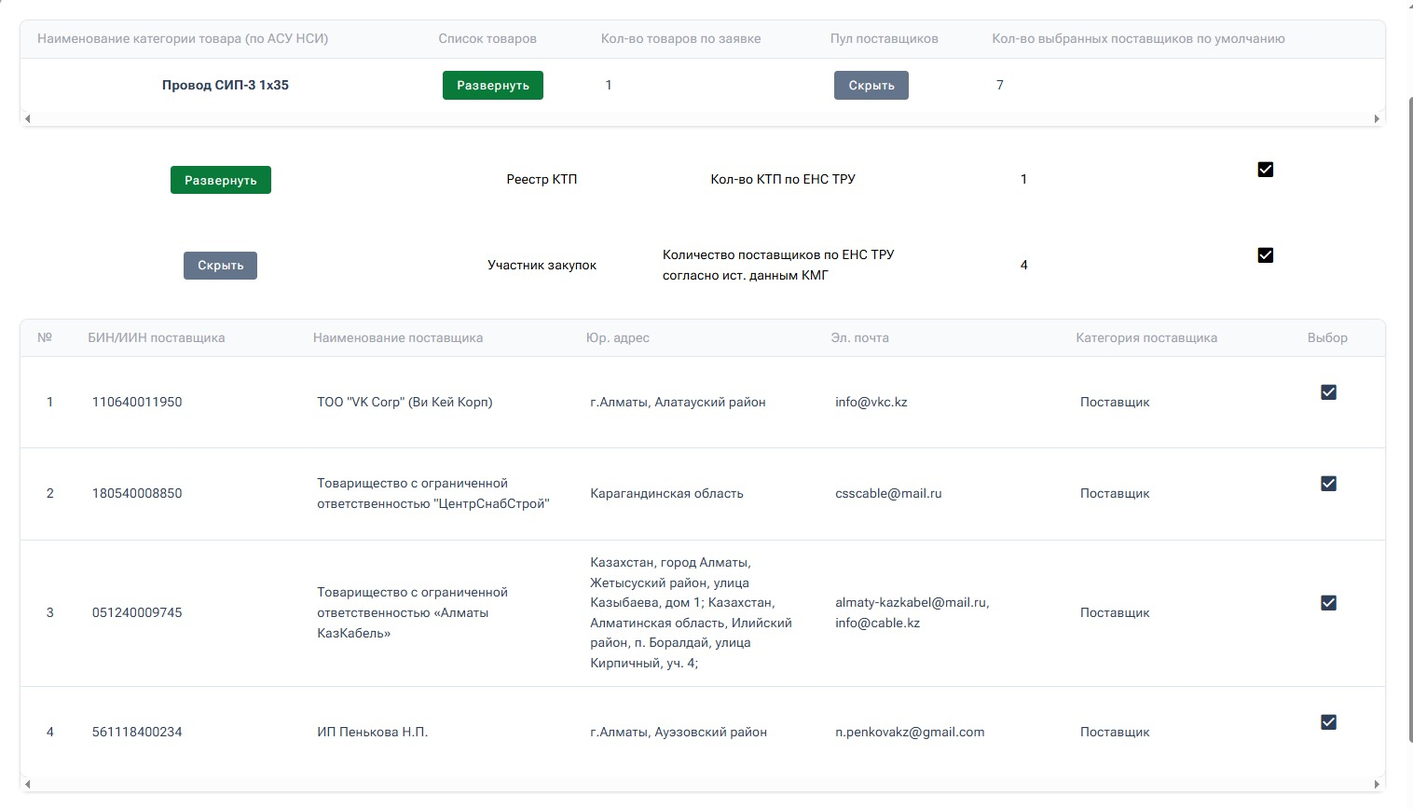
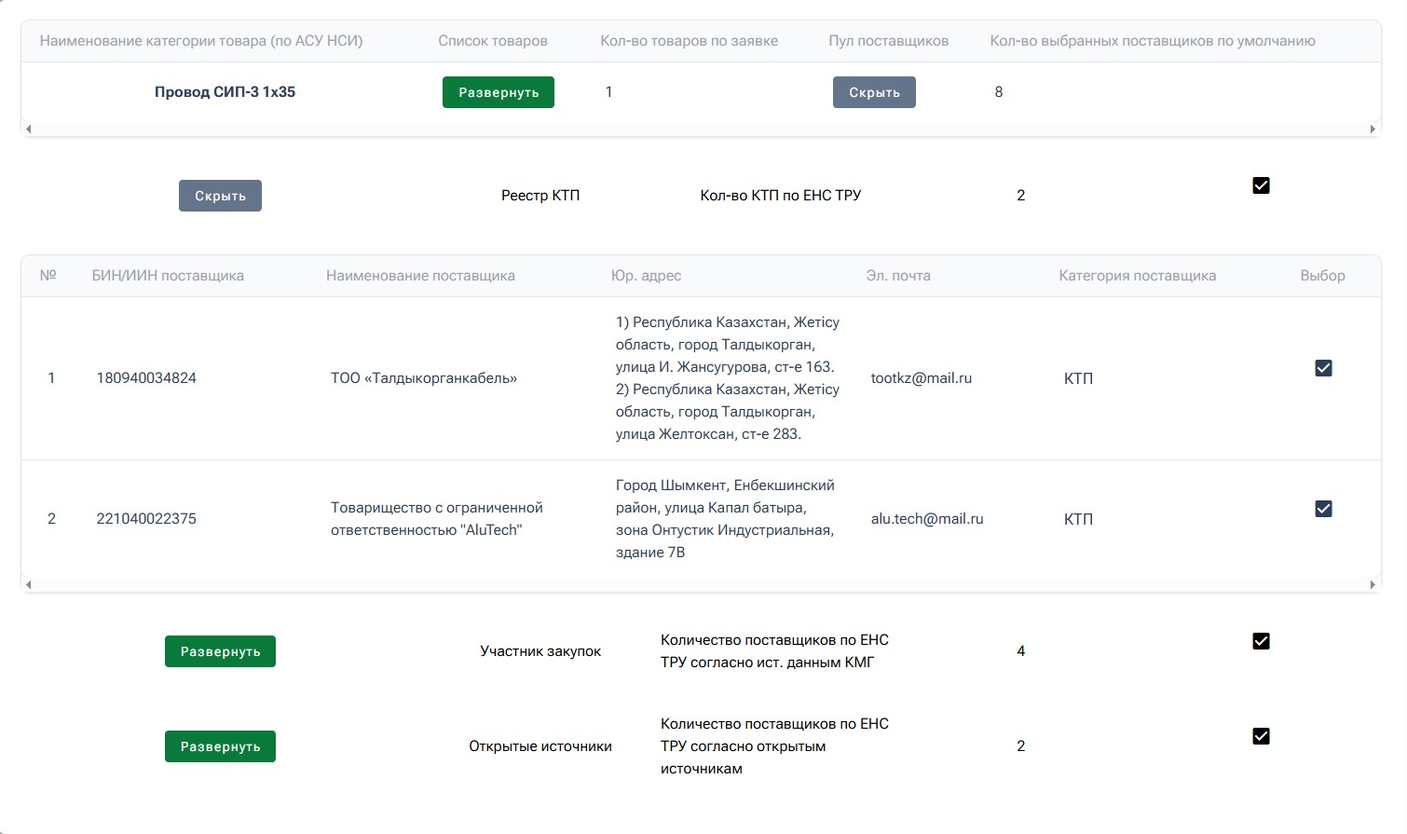
Закупки: новые скрины пула поставщиков и бюджета, порядок слайдов, список товаров
Адиль 16.09 вечером:
- 7-й слайд — новый скрин пула поставщиков (8 по умолчанию: КТП по ЕНС
  ТРУ, участники закупок, открытые источники);
- 9-й слайд — новый скрин DS Warehouse с бюджетированием; сумма по нему
  41,8 млн ₸ за 65 529 м, а не 319 тыс. ₸;
- 2-й и 3-й слайды местами: сначала helicopter view, потом проблемы;
- список 25 товаров пилота возвращён в самый конец;
- на карточке AISAP снято «4 шага из 7 реализованы».

Проверено: порядок слайдов и последний слайд снимком.

diff --git a/закупки.html b/закупки.html
@@ -673,50 +673,6 @@ body.экраны #обёртка::after{display:none}
   <div class="полотно ролик"><video src="медиа/ролики/закупки.mp4" playsinline preload="metadata"></video></div>
 </section>
 
-<section class="слайд" id="с0п" aria-label="Какие проблемы решаем">
-  <div class="бровь">Зачем · текущие проблемы закупок</div>
-  <h2 class="заголовок дисплей">Какие проблемы решаем</h2>
-  <p class="идея">Пять проблем закупки, которые решает сквозной процесс. Нажатие — следующая.</p>
-  <!-- 14.09: формулировки и суть — из таблицы Армана дословно. Подача: пять
-       плиток сверху, суть по одной в панели снизу (Адиль: «кипа текста»),
-       текущая плитка подсвечена маркером data-к/data-до. -->
-  <div class="пп_плитки">
-    <svg class="пэ_нить" viewBox="0 0 1724 8" preserveAspectRatio="none" aria-hidden="true"><line x1="0" y1="4" x2="1724" y2="4" class="нить" pathLength="1"/></svg>
-      <div class="пп_плитка" data-к="1"><i class="пп_маркер" data-к="1" data-до="1"></i><img src="медиа/иконки_закупки/шаг1.png" alt=""><em>01</em><b>Неточная потребность</b></div>
-      <div class="пп_плитка" data-к="2"><i class="пп_маркер" data-к="2" data-до="2"></i><img src="медиа/иконки_закупки/шаг2.png" alt=""><em>02</em><b>Цены вручную</b></div>
-      <div class="пп_плитка" data-к="3"><i class="пп_маркер" data-к="3" data-до="3"></i><img src="медиа/иконки_закупки/шаг3.png" alt=""><em>03</em><b>Ручные операции и разрывы</b></div>
-      <div class="пп_плитка" data-к="4"><i class="пп_маркер" data-к="4" data-до="4"></i><img src="медиа/иконки_закупки/шаг5.png" alt=""><em>04</em><b>Долгий закупочный цикл</b></div>
-      <div class="пп_плитка" data-к="5"><i class="пп_маркер" data-к="5" data-до="5"></i><img src="медиа/иконки_закупки/шаг7.png" alt=""><em>05</em><b>Разорванная ответственность</b></div>
-  </div>
-  <div class="пп_панели">
-      <div class="пп_панель" data-к="1" data-до="1">
-        <div class="пп_текст"><div class="пп_н">Проблема 01</div><h3>Потребность формируется неточно, что приводит к росту запасов и неликвидов</h3><p>Потребность часто формируется на основании заявок прошлых лет, ручных оценок и неполной видимости складов. В результате закупаются ТРУ, которые уже есть на складах или не будут использованы в срок.</p></div>
-        <div class="пп_акцент"><b>88 → 147</b><span>млрд ₸ остатков за три года · 85 млрд ₸ — исторические</span></div>
-      </div>
-      <div class="пп_панель" data-к="2" data-до="2">
-        <div class="пп_текст"><div class="пп_н">Проблема 02</div><h3>Цены определяются вручную и быстро теряют актуальность</h3><p>Ручной сбор КП, Excel и переписка приводят к тому, что цена становится устаревшей ещё до утверждения бюджета или плана закупок. Из-за этого появляются корректировки, возвраты и повторные согласования.</p></div>
-        <div class="пп_акцент"><b>КП → Excel → почта</b><span>цена устаревает до утверждения бюджета</span></div>
-      </div>
-      <div class="пп_панель" data-к="3" data-до="3">
-        <div class="пп_текст"><div class="пп_н">Проблема 03</div><h3>Процесс перегружен ручными операциями и разрывами между системами</h3><p>Данные вводятся вручную, переносятся между Excel, почтой и разными ИС. Это увеличивает трудозатраты, создаёт ошибки и снижает прослеживаемость закупки от потребности до договора.</p></div>
-        <div class="пп_акцент"><b>Excel · почта · разные ИС</b><span>закупка не прослеживается от потребности до договора</span></div>
-      </div>
-      <div class="пп_панель" data-к="4" data-до="4">
-        <div class="пп_текст"><div class="пп_н">Проблема 04</div><h3>Закупочный цикл затягивается из-за согласований, проверок и процедурных возвратов</h3><p>Многоступенчатые согласования, ручная проверка документации и несинхронность бюджета, плана и закупочной процедуры удлиняют цикл. Закупка часто движется не как сквозной процесс, а как набор отдельных согласований.</p></div>
-        <div class="пп_акцент"><b>бюджет ≠ план ≠ процедура</b><span>набор согласований вместо сквозного процесса</span></div>
-      </div>
-      <div class="пп_панель" data-к="5" data-до="5">
-        <div class="пп_текст"><div class="пп_н">Проблема 05</div><h3>Ответственность за результат обрывается между этапами: никто не управляет E2E-процессом</h3><p>Каждый участник отвечает только за свой участок: потребность, цену, бюджет, план, закупку или договор. После передачи на следующий этап контроль результата теряется, а проблемы выявляются поздно — уже на поставке, оплате или претензионной работе.</p></div>
-        <div class="пп_акцент"><b>потребность · цена · бюджет · план · закупка · договор</b><span>у каждого свой участок — за результат не отвечает никто</span></div>
-      </div>
-  </div>
-</section>
-
-<!-- ================= 0. первая страница: helicopter view =================
-     Созвон 03.09 23:40: заголовок «Сквозной процесс проведения закупок
-     посредством ИИ», мельче — «без участия человеческого фактора»; сверху
-     имя системы KMG AISAP с расшифровкой; у шагов — иллюстрации, названия
-     системы крупнее, модуль под ним. -->
 <section class="слайд" id="с0" aria-label="Helicopter view">
   <div class="бровь">Helicopter view</div>
   <div class="система_имя дисплей">KMG AISAP <span>AI Satyp Alu Platformasy</span></div>
@@ -782,45 +738,58 @@ body.экраны #обёртка::after{display:none}
   </svg>
 </section>
 
+<section class="слайд" id="с0п" aria-label="Какие проблемы решаем">
+  <div class="бровь">Зачем · текущие проблемы закупок</div>
+  <h2 class="заголовок дисплей">Какие проблемы решаем</h2>
+  <p class="идея">Пять проблем закупки, которые решает сквозной процесс. Нажатие — следующая.</p>
+  <!-- 14.09: формулировки и суть — из таблицы Армана дословно. Подача: пять
+       плиток сверху, суть по одной в панели снизу (Адиль: «кипа текста»),
+       текущая плитка подсвечена маркером data-к/data-до. -->
+  <div class="пп_плитки">
+    <svg class="пэ_нить" viewBox="0 0 1724 8" preserveAspectRatio="none" aria-hidden="true"><line x1="0" y1="4" x2="1724" y2="4" class="нить" pathLength="1"/></svg>
+      <div class="пп_плитка" data-к="1"><i class="пп_маркер" data-к="1" data-до="1"></i><img src="медиа/иконки_закупки/шаг1.png" alt=""><em>01</em><b>Неточная потребность</b></div>
+      <div class="пп_плитка" data-к="2"><i class="пп_маркер" data-к="2" data-до="2"></i><img src="медиа/иконки_закупки/шаг2.png" alt=""><em>02</em><b>Цены вручную</b></div>
+      <div class="пп_плитка" data-к="3"><i class="пп_маркер" data-к="3" data-до="3"></i><img src="медиа/иконки_закупки/шаг3.png" alt=""><em>03</em><b>Ручные операции и разрывы</b></div>
+      <div class="пп_плитка" data-к="4"><i class="пп_маркер" data-к="4" data-до="4"></i><img src="медиа/иконки_закупки/шаг5.png" alt=""><em>04</em><b>Долгий закупочный цикл</b></div>
+      <div class="пп_плитка" data-к="5"><i class="пп_маркер" data-к="5" data-до="5"></i><img src="медиа/иконки_закупки/шаг7.png" alt=""><em>05</em><b>Разорванная ответственность</b></div>
+  </div>
+  <div class="пп_панели">
+      <div class="пп_панель" data-к="1" data-до="1">
+        <div class="пп_текст"><div class="пп_н">Проблема 01</div><h3>Потребность формируется неточно, что приводит к росту запасов и неликвидов</h3><p>Потребность часто формируется на основании заявок прошлых лет, ручных оценок и неполной видимости складов. В результате закупаются ТРУ, которые уже есть на складах или не будут использованы в срок.</p></div>
+        <div class="пп_акцент"><b>88 → 147</b><span>млрд ₸ остатков за три года · 85 млрд ₸ — исторические</span></div>
+      </div>
+      <div class="пп_панель" data-к="2" data-до="2">
+        <div class="пп_текст"><div class="пп_н">Проблема 02</div><h3>Цены определяются вручную и быстро теряют актуальность</h3><p>Ручной сбор КП, Excel и переписка приводят к тому, что цена становится устаревшей ещё до утверждения бюджета или плана закупок. Из-за этого появляются корректировки, возвраты и повторные согласования.</p></div>
+        <div class="пп_акцент"><b>КП → Excel → почта</b><span>цена устаревает до утверждения бюджета</span></div>
+      </div>
+      <div class="пп_панель" data-к="3" data-до="3">
+        <div class="пп_текст"><div class="пп_н">Проблема 03</div><h3>Процесс перегружен ручными операциями и разрывами между системами</h3><p>Данные вводятся вручную, переносятся между Excel, почтой и разными ИС. Это увеличивает трудозатраты, создаёт ошибки и снижает прослеживаемость закупки от потребности до договора.</p></div>
+        <div class="пп_акцент"><b>Excel · почта · разные ИС</b><span>закупка не прослеживается от потребности до договора</span></div>
+      </div>
+      <div class="пп_панель" data-к="4" data-до="4">
+        <div class="пп_текст"><div class="пп_н">Проблема 04</div><h3>Закупочный цикл затягивается из-за согласований, проверок и процедурных возвратов</h3><p>Многоступенчатые согласования, ручная проверка документации и несинхронность бюджета, плана и закупочной процедуры удлиняют цикл. Закупка часто движется не как сквозной процесс, а как набор отдельных согласований.</p></div>
+        <div class="пп_акцент"><b>бюджет ≠ план ≠ процедура</b><span>набор согласований вместо сквозного процесса</span></div>
+      </div>
+      <div class="пп_панель" data-к="5" data-до="5">
+        <div class="пп_текст"><div class="пп_н">Проблема 05</div><h3>Ответственность за результат обрывается между этапами: никто не управляет E2E-процессом</h3><p>Каждый участник отвечает только за свой участок: потребность, цену, бюджет, план, закупку или договор. После передачи на следующий этап контроль результата теряется, а проблемы выявляются поздно — уже на поставке, оплате или претензионной работе.</p></div>
+        <div class="пп_акцент"><b>потребность · цена · бюджет · план · закупка · договор</b><span>у каждого свой участок — за результат не отвечает никто</span></div>
+      </div>
+  </div>
+</section>
+
+<!-- ================= 0. первая страница: helicopter view =================
+     Созвон 03.09 23:40: заголовок «Сквозной процесс проведения закупок
+     посредством ИИ», мельче — «без участия человеческого фактора»; сверху
+     имя системы KMG AISAP с расшифровкой; у шагов — иллюстрации, названия
+     системы крупнее, модуль под ним. -->
+
+
 
 
 <!-- ================= 1б. товары пилота =================
      Созвон 05.09: отдельным слайдом — список товаров, выбранных для пилота,
      с кодом АСУ НСИ. Перечень и коды — из таблицы заказчика. -->
-<section class="слайд скрыт" id="с1б" aria-label="Товары пилота">
-  <div class="бровь">Пилот · Мангистауэнергомунай</div>
-  <h2 class="заголовок дисплей">Для пилота выбрано 25 товаров</h2>
-  <div class="подзаг">формирование потребности по ним ИИ ведёт полностью автоматически</div>
-  <div class="полотно">
-    <ol class="пилот">
-        <li style="transition-delay:0ms" data-к="1"><i>1</i><b>Вода питьевая 0,5л</b><span>Напитки</span><em>0103.019064</em></li>
-        <li style="transition-delay:35ms" data-к="1"><i>2</i><b>Вода питьевая 19л</b><span>Напитки</span><em>0103.019066</em></li>
-        <li style="transition-delay:70ms" data-к="1"><i>3</i><b>Бензин-растворитель Уайт-спирит ГОСТ 3134-78</b><span>Запчасти к специальной технике</span><em>02030103.031558</em></li>
-        <li style="transition-delay:105ms" data-к="1"><i>4</i><b>Уголок горячекатаный равнополочный 100х100х8мм ст3сп ГОСТ 8509-93</b><span>Стройматериалы</span><em>06030301.526079</em></li>
-        <li style="transition-delay:140ms" data-к="1"><i>5</i><b>Труба электросварная прямошовная 57х3мм ст3сп</b><span>Стройматериалы</span><em>08010201.476634</em></li>
-        <li style="transition-delay:175ms" data-к="1"><i>6</i><b>Лента сигнальная Осторожно кабель 250ммх100м</b><span>Изделия резиновые и пластмассовые</span><em>16050302.466672</em></li>
-        <li style="transition-delay:210ms" data-к="1"><i>7</i><b>Эмаль нитроцеллюлозная НЦ-132 желтый</b><span>Хозяйственные товары</span><em>170101.009063</em></li>
-        <li style="transition-delay:245ms" data-к="1"><i>8</i><b>Мыло хозяйственное 72% 250г</b><span>Хозяйственные товары</span><em>17080501.022814</em></li>
-        <li style="transition-delay:280ms" data-к="1"><i>9</i><b>Выключатель автоматический Iном.32А Iоткл.6кА Uном.230В 1р IP20</b><span>Оборудование электрическое</span><em>2302020101.009044</em></li>
-        <li style="transition-delay:315ms" data-к="1"><i>10</i><b>Фотореле электронное ФР-1</b><span>Запчасти к специальной технике</span><em>2302060111.023159</em></li>
-        <li style="transition-delay:350ms" data-к="1"><i>11</i><b>Электропатрон карболитовый E27</b><span>Осветительное оборудование</span><em>2306020104.017928</em></li>
-        <li style="transition-delay:385ms" data-к="1"><i>12</i><b>Зажим аппаратный А2А-35</b><span>Оборудование электрическое</span><em>2306020302.027248</em></li>
-        <li style="transition-delay:420ms" data-к="1"><i>13</i><b>Наконечник кабельный ТМЛ-35-10-10 35мм2 медный</b><span>Электротехнические изделия</span><em>23060203040104.463656</em></li>
-        <li style="transition-delay:455ms" data-к="1"><i>14</i><b>Перемычка ПГС 25-560 гибкая</b><span>Электротехнические изделия</span><em>23060205.468022</em></li>
-        <li style="transition-delay:490ms" data-к="1"><i>15</i><b>Изолятор штырьевой фарфоровый ШФ 20-Г</b><span>Электроизоляционные материалы</span><em>2308030102.461396</em></li>
-        <li style="transition-delay:525ms" data-к="1"><i>16</i><b>Колпачок К-9</b><span>Изделия резиновые и пластмассовые</span><em>2308030401.037121</em></li>
-        <li style="transition-delay:560ms" data-к="1"><i>17</i><b>Провод СИП-3 1х35</b><span>Кабель</span><em>240404.022178</em></li>
-        <li style="transition-delay:595ms" data-к="1"><i>18</i><b>Ножовка по металлу 300х1мм</b><span>Инструменты</span><em>2807020109.036828</em></li>
-        <li style="transition-delay:630ms" data-к="1"><i>19</i><b>Картридж CE285A черный</b><span>Офисная оргтехника с комплектующими и расходными материалами к ним</span><em>290607.022210</em></li>
-        <li style="transition-delay:665ms" data-к="1"><i>20</i><b>Бумага A4 80г/м2 500л.</b><span>Канцелярские товары</span><em>420101.010604</em></li>
-        <li style="transition-delay:700ms" data-к="1"><i>21</i><b>Бумага туалетная 2-слойная 17м</b><span>Хозяйственные товары</span><em>420119.488106</em></li>
-        <li style="transition-delay:735ms" data-к="1"><i>22</i><b>Опора железобетонная СВ 164-12 16400мм</b><span>Стройматериалы</span><em>460801.442296</em></li>
-        <li style="transition-delay:770ms" data-к="1"><i>23</i><b>Каска защитная белая р.52-65</b><span>Средства индивидуальной защиты</span><em>6109.436815</em></li>
-        <li style="transition-delay:805ms" data-к="1"><i>24</i><b>Кисть плоская 50мм натуральная</b><span>Инструменты</span><em>74060201.018267</em></li>
-        <li style="transition-delay:840ms" data-к="1"><i>25</i><b>Знак безопасности Заземление круглый 50мм металл</b><span>Знаки, указатели</span><em>74080803.551988</em></li>
-    </ol>
-  </div>
-</section>
+
 
 <!-- ================= 1. ИИ формирует потребность =================
      Созвон 23:40: шесть карточек-источников — все слева от модуля; карточка
@@ -1074,7 +1043,7 @@ body.экраны #обёртка::after{display:none}
       <h3>Маркетинговое исследование: пул поставщиков подобран с применением ИИ</h3>
       <ul>
         <li>Товар из заявки — «Провод СИП-3 1×35», категория по АСУ НСИ</li>
-        <li>Пул поставщиков: 7 по умолчанию — реестр КТП по ЕНС ТРУ и участники закупок по историческим данным КМГ</li>
+        <li>Пул поставщиков: 8 по умолчанию — реестр КТП по ЕНС ТРУ, участники закупок по историческим данным КМГ и открытые источники</li>
         <li>Каждый поставщик с БИН, адресом и почтой — приглашения уходят автоматически</li>
         <li>Дальше — сбор КП, заключение и цена</li>
       </ul>
@@ -1128,7 +1097,8 @@ body.экраны #обёртка::after{display:none}
       <h3>Бюджет проверен, статус вернулся в потребность</h3>
       <ul>
         <li>Запрос в систему бюджетирования ушёл автоматически</li>
-        <li>Ответ по проводу СИП-3: в бюджете — Да, цена 638 ₸/м без НДС, сумма 319 тыс. ₸</li>
+        <!-- 16.09 вечер (закупщики): новый скрин DS Warehouse, сумма с него — 41 818 206 ₸ за 65 529 м -->
+        <li>Ответ по проводу СИП-3: в бюджете — Да, цена 638 ₸/м без НДС, потребность 65 529 м, сумма 41,8 млн ₸</li>
         <li>Статус позиции — «Бюджетирование завершено»</li>
         <li>Дальше передача к закупу инициируется автоматически — через интеграцию систем</li>
       </ul>
@@ -1571,6 +1541,42 @@ body.экраны #обёртка::after{display:none}
         <div class="пц"><b>−10–20 %</b><span>времени планирования закупок</span></div>
       </div>
     </div>
+  </div>
+</section>
+
+<!-- 16.09 вечер (Адиль): список товаров пилота возвращён в самый конец -->
+<section class="слайд" id="с1б" aria-label="Товары пилота">
+  <div class="бровь">Пилот · Мангистауэнергомунай</div>
+  <h2 class="заголовок дисплей">Для пилота выбрано 25 товаров</h2>
+  <div class="подзаг">формирование потребности по ним ИИ ведёт полностью автоматически</div>
+  <div class="полотно">
+    <ol class="пилот">
+        <li style="transition-delay:0ms" data-к="1"><i>1</i><b>Вода питьевая 0,5л</b><span>Напитки</span><em>0103.019064</em></li>
+        <li style="transition-delay:35ms" data-к="1"><i>2</i><b>Вода питьевая 19л</b><span>Напитки</span><em>0103.019066</em></li>
+        <li style="transition-delay:70ms" data-к="1"><i>3</i><b>Бензин-растворитель Уайт-спирит ГОСТ 3134-78</b><span>Запчасти к специальной технике</span><em>02030103.031558</em></li>
+        <li style="transition-delay:105ms" data-к="1"><i>4</i><b>Уголок горячекатаный равнополочный 100х100х8мм ст3сп ГОСТ 8509-93</b><span>Стройматериалы</span><em>06030301.526079</em></li>
+        <li style="transition-delay:140ms" data-к="1"><i>5</i><b>Труба электросварная прямошовная 57х3мм ст3сп</b><span>Стройматериалы</span><em>08010201.476634</em></li>
+        <li style="transition-delay:175ms" data-к="1"><i>6</i><b>Лента сигнальная Осторожно кабель 250ммх100м</b><span>Изделия резиновые и пластмассовые</span><em>16050302.466672</em></li>
+        <li style="transition-delay:210ms" data-к="1"><i>7</i><b>Эмаль нитроцеллюлозная НЦ-132 желтый</b><span>Хозяйственные товары</span><em>170101.009063</em></li>
+        <li style="transition-delay:245ms" data-к="1"><i>8</i><b>Мыло хозяйственное 72% 250г</b><span>Хозяйственные товары</span><em>17080501.022814</em></li>
+        <li style="transition-delay:280ms" data-к="1"><i>9</i><b>Выключатель автоматический Iном.32А Iоткл.6кА Uном.230В 1р IP20</b><span>Оборудование электрическое</span><em>2302020101.009044</em></li>
+        <li style="transition-delay:315ms" data-к="1"><i>10</i><b>Фотореле электронное ФР-1</b><span>Запчасти к специальной технике</span><em>2302060111.023159</em></li>
+        <li style="transition-delay:350ms" data-к="1"><i>11</i><b>Электропатрон карболитовый E27</b><span>Осветительное оборудование</span><em>2306020104.017928</em></li>
+        <li style="transition-delay:385ms" data-к="1"><i>12</i><b>Зажим аппаратный А2А-35</b><span>Оборудование электрическое</span><em>2306020302.027248</em></li>
+        <li style="transition-delay:420ms" data-к="1"><i>13</i><b>Наконечник кабельный ТМЛ-35-10-10 35мм2 медный</b><span>Электротехнические изделия</span><em>23060203040104.463656</em></li>
+        <li style="transition-delay:455ms" data-к="1"><i>14</i><b>Перемычка ПГС 25-560 гибкая</b><span>Электротехнические изделия</span><em>23060205.468022</em></li>
+        <li style="transition-delay:490ms" data-к="1"><i>15</i><b>Изолятор штырьевой фарфоровый ШФ 20-Г</b><span>Электроизоляционные материалы</span><em>2308030102.461396</em></li>
+        <li style="transition-delay:525ms" data-к="1"><i>16</i><b>Колпачок К-9</b><span>Изделия резиновые и пластмассовые</span><em>2308030401.037121</em></li>
+        <li style="transition-delay:560ms" data-к="1"><i>17</i><b>Провод СИП-3 1х35</b><span>Кабель</span><em>240404.022178</em></li>
+        <li style="transition-delay:595ms" data-к="1"><i>18</i><b>Ножовка по металлу 300х1мм</b><span>Инструменты</span><em>2807020109.036828</em></li>
+        <li style="transition-delay:630ms" data-к="1"><i>19</i><b>Картридж CE285A черный</b><span>Офисная оргтехника с комплектующими и расходными материалами к ним</span><em>290607.022210</em></li>
+        <li style="transition-delay:665ms" data-к="1"><i>20</i><b>Бумага A4 80г/м2 500л.</b><span>Канцелярские товары</span><em>420101.010604</em></li>
+        <li style="transition-delay:700ms" data-к="1"><i>21</i><b>Бумага туалетная 2-слойная 17м</b><span>Хозяйственные товары</span><em>420119.488106</em></li>
+        <li style="transition-delay:735ms" data-к="1"><i>22</i><b>Опора железобетонная СВ 164-12 16400мм</b><span>Стройматериалы</span><em>460801.442296</em></li>
+        <li style="transition-delay:770ms" data-к="1"><i>23</i><b>Каска защитная белая р.52-65</b><span>Средства индивидуальной защиты</span><em>6109.436815</em></li>
+        <li style="transition-delay:805ms" data-к="1"><i>24</i><b>Кисть плоская 50мм натуральная</b><span>Инструменты</span><em>74060201.018267</em></li>
+        <li style="transition-delay:840ms" data-к="1"><i>25</i><b>Знак безопасности Заземление круглый 50мм металл</b><span>Знаки, указатели</span><em>74080803.551988</em></li>
+    </ol>
   </div>
 </section>
 

diff --git a/сцена.html b/сцена.html
@@ -1067,7 +1067,7 @@ body.без_мыши, body.без_мыши *{cursor:none !important}
           описание:"Система договорного делопроизводства: большинство договоров купли-продажи нефтепродуктов на внутренний рынок проводится здесь." },
         { имя:"Модуль отслеживания поставок нефтепродуктов", состояние:"слайды", хроно:"—", эффект:"Поставка видна от завода до нефтебазы", площадки:"ДАЦ", ярлыки:[],
           описание:"Отслеживание поставок нефтепродуктов по железной дороге: дислокация вагонов, импорт, прибытие на нефтебазы — данные в KMG AIAN." },
-        { имя:"KMG AISAP", кадр:"медиа/кадры/aisap.jpg", состояние:"слайды", хроно:"0:15", эффект:"Сквозной процесс закупок посредством ИИ · 4 шага из 7 реализованы", площадки:"Все площадки", ярлыки:["ИИ"],
+        { имя:"KMG AISAP", кадр:"медиа/кадры/aisap.jpg", состояние:"слайды", хроно:"0:15", эффект:"Сквозной процесс закупок с применением ИИ", площадки:"Все площадки", ярлыки:["ИИ"],
           /* 15.09 (Адиль): «ролик по AISAP должен отдельно запускаться, чтобы не
              мешать презе» — ролик кнопкой на экране выбора, презентация — второй
              кнопкой; из самой презентации слайд с видео снят. */

diff --git a/сцена_v2.html b/сцена_v2.html
@@ -1157,7 +1157,7 @@ body.процессы .веер{display:none}
           описание:"Система договорного делопроизводства: большинство договоров купли-продажи нефтепродуктов на внутренний рынок проводится здесь." },
         { имя:"Модуль отслеживания поставок нефтепродуктов", состояние:"слайды", хроно:"—", эффект:"Поставка видна от завода до нефтебазы", площадки:"ДАЦ", ярлыки:[],
           описание:"Отслеживание поставок нефтепродуктов по железной дороге: дислокация вагонов, импорт, прибытие на нефтебазы — данные в KMG AIAN." },
-        { имя:"KMG AISAP", кадр:"медиа/кадры/aisap.jpg", состояние:"слайды", хроно:"0:15", эффект:"Сквозной процесс закупок посредством ИИ · 4 шага из 7 реализованы", площадки:"Все площадки", ярлыки:["ИИ"],
+        { имя:"KMG AISAP", кадр:"медиа/кадры/aisap.jpg", состояние:"слайды", хроно:"0:15", эффект:"Сквозной процесс закупок с применением ИИ", площадки:"Все площадки", ярлыки:["ИИ"],
           /* 15.09 (Адиль): «ролик по AISAP должен отдельно запускаться, чтобы не
              мешать презе» — ролик кнопкой на экране выбора, презентация — второй
              кнопкой; из самой презентации слайд с видео снят. */
